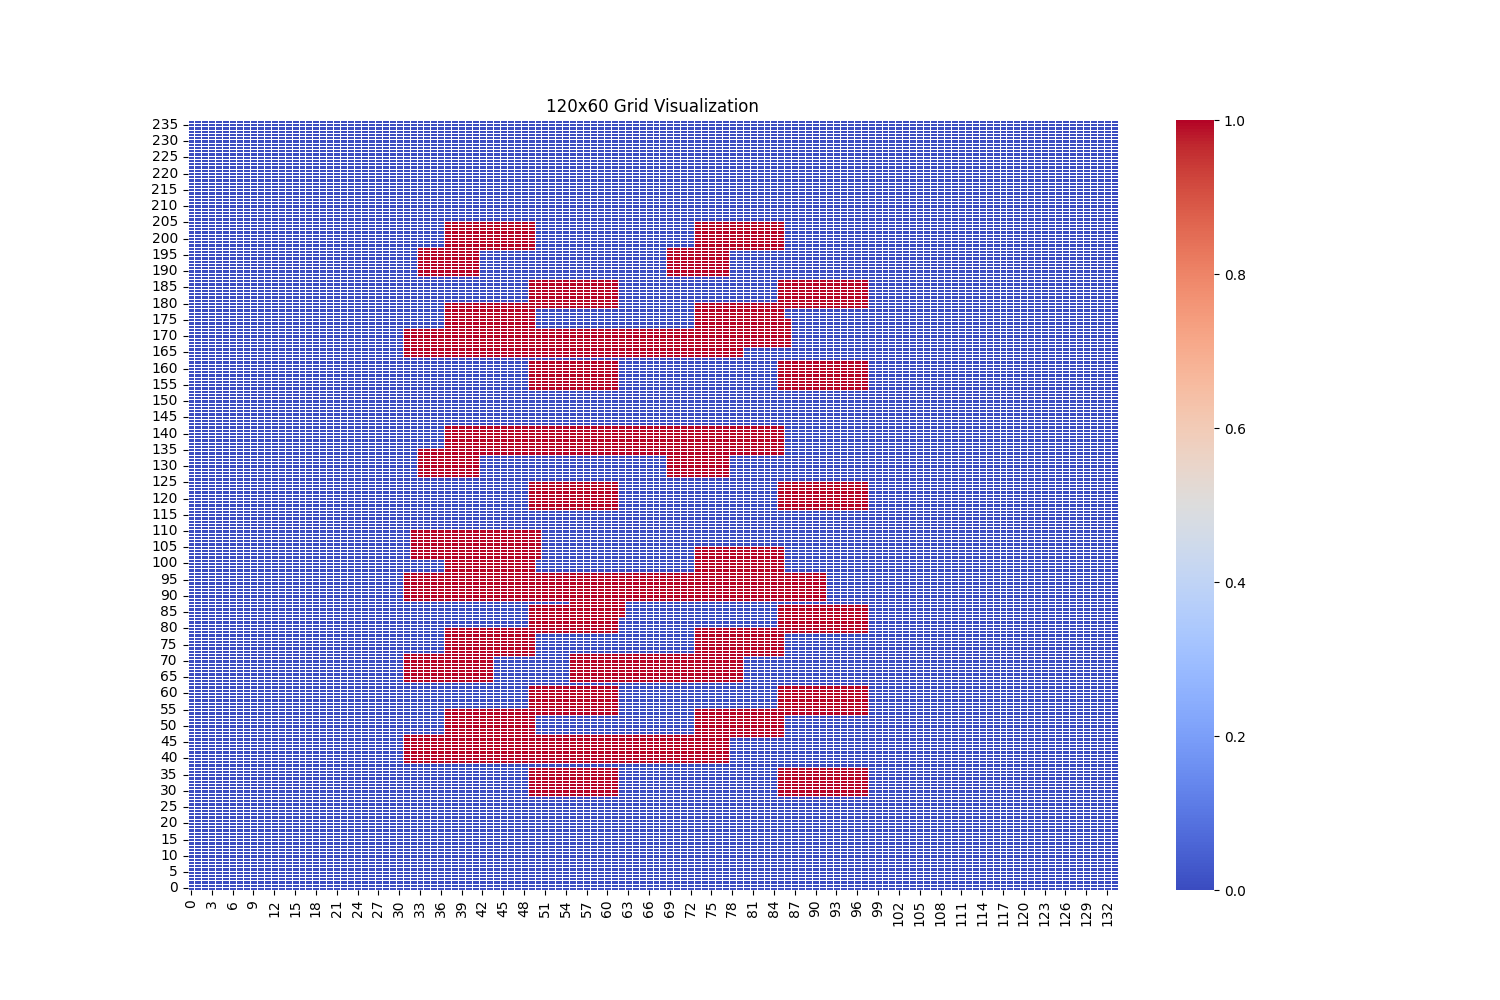
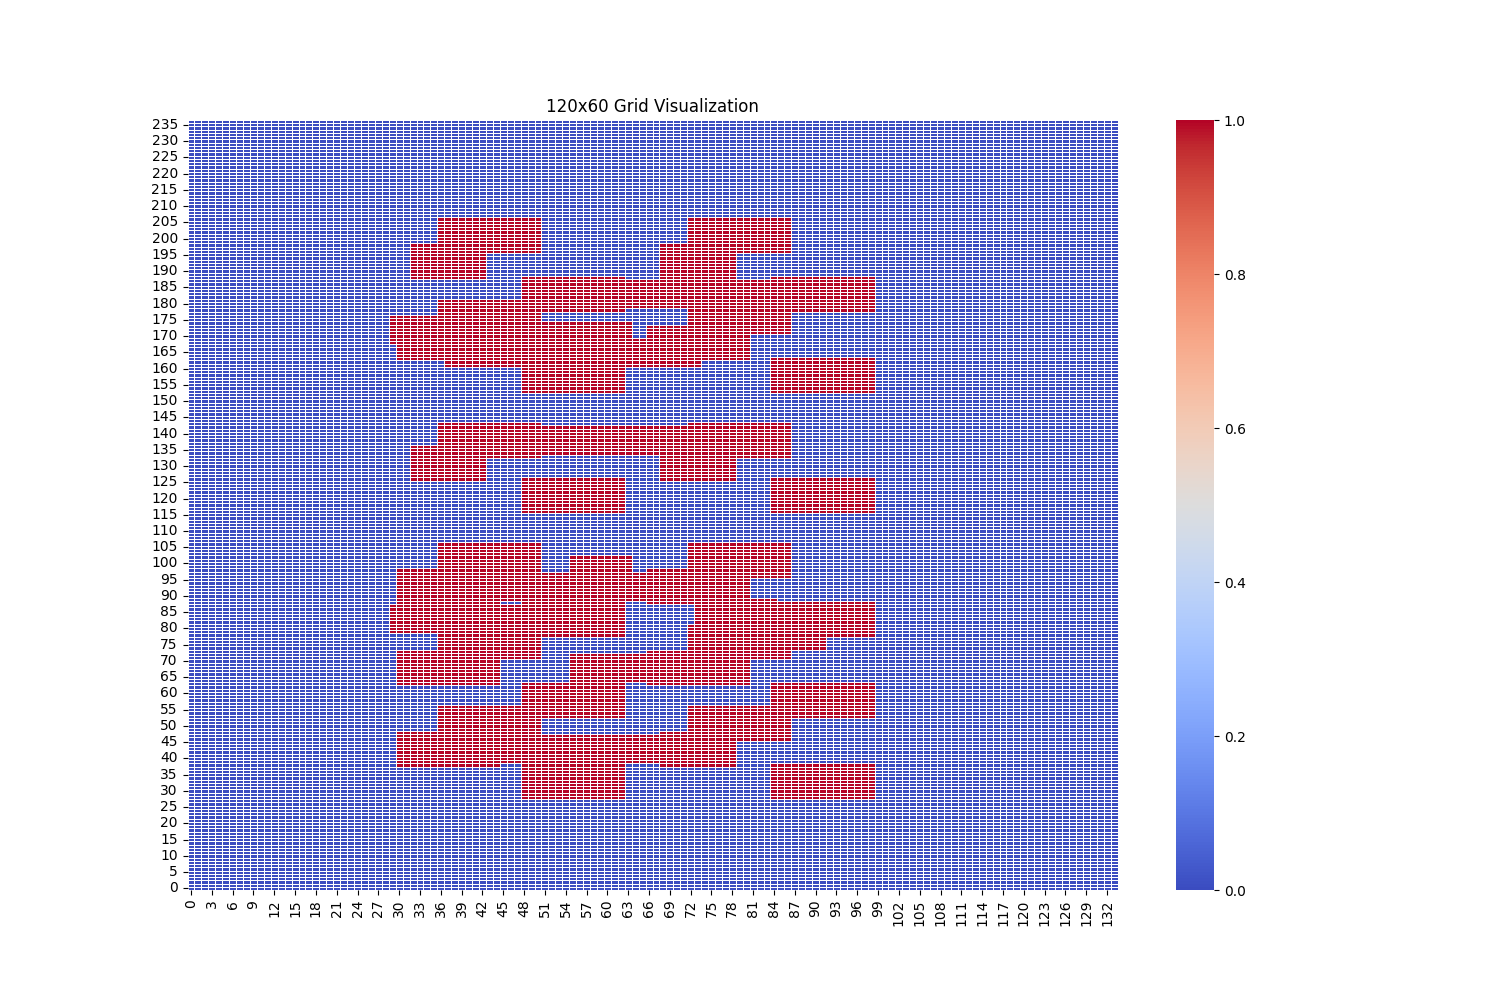
Some further work on routing mainly calculation of area that cannot be used

diff --git a/src/astar/a_star.py b/src/astar/a_star.py
@@ -54,37 +54,6 @@ def heuristic(current, mask, goals):
     return min(manhattan(current, goal) for goal in unvisited)
 
 
-# def get_neighbors(node, grid_vertical, grid_horizontal, goal, current_dir, seg_length):
-#     """Get valid neighbors for the current node."""
-#     neighbors = []
-#     h_dir = [(1, 0), (-1, 0)]
-#     v_dir = [ (0, 1), (0, -1)]
-#
-#
-#
-#
-#     for hdx, hdy in h_dir:
-#         hx, hy = node[0] + hdx, node[1] + hdy
-#
-#
-#             # Check bounds and obstacles
-#         if 0 <= hx < len(grid_horizontal[0]) and 0 <= hy < len(grid_horizontal) and grid_horizontal[hy][hx] == 0:
-#             neighbors.append(((hx,hy), (hdx,hdy)))
-#         elif 0 <= hx < len(grid_horizontal[0]) and 0 <= hy < len(grid_horizontal) and grid_horizontal[hy][hx] == goal:
-#             neighbors.append(((hx,hy), (hdx,hdy)))
-#
-#
-#     for vdx, vdy in v_dir:
-#         vx, vy = node[0] + vdx, node[1] + vdy
-#
-#         if 0 <= vx < len(grid_vertical[0]) and 0 <= vy < len(grid_vertical) and grid_vertical[vy][vx] == 0:
-#             neighbors.append(((vx,vy), (vdx,vdy)))
-#         elif 0 <= vx < len(grid_vertical[0]) and 0 <= vy < len(grid_vertical) and grid_vertical[vy][vx] == goal:
-#             neighbors.append(((vx,vy), (vdx,vdy)))
-#
-#
-#     return neighbors
-
 
 def reconstruct_path(came_from, current):
     """Reconstruct the path from start to goal."""
@@ -96,13 +65,13 @@ def reconstruct_path(came_from, current):
     return path
 
 
-def a_star(grid_vertical, grid_horizontal, start, goals):
-    minimum_seg_length = 6 # Change this to 1 for debugging, but note the impact on state space.
+def a_star(grid_vertical, grid_horizontal, start, goals, minimum_segment_length):
+    minimum_seg_length = minimum_segment_length # Change this to 1 for debugging, but note the impact on state space.
     goal_indices = {goal: i for i, goal in enumerate(goals)}
     all_visited = (1 << len(goals)) - 1
     height = len(grid_vertical)
     width = len(grid_vertical[0]) if height > 0 else 0
-    min_seg_after_goal = 10
+    min_seg_after_goal = minimum_segment_length
     def in_bounds(pos):
         x, y = pos
         return 0 <= x < width and 0 <= y < height
@@ -213,15 +182,17 @@ def check_start_end_port(con, port_scaled_coordinates: dict, port_coordinates: d
 
     return start, real_start, end, real_end
 
-def _lock_or_unlock_port(grid_vertical, grid_horizontal, goal, port_scaled_coordinates, lock):
-    print(port_scaled_coordinates)
-    h = 4
-    w = 6
+def _lock_or_unlock_port(grid_vertical, grid_horizontal, goal, port_scaled_coordinates, routing_sizing_area,lock):
+
+    h = routing_sizing_area.port_height_scaled
+    w = routing_sizing_area.port_width_scaled
     for node in goal:
         for key in port_scaled_coordinates:
             if (int(port_scaled_coordinates[key][0]),int(port_scaled_coordinates[key][2])) == node:
-                w = 4 if key[1] == "G" else 6
+                w = routing_sizing_area.gate_width_scaled if key[1] == "G" else routing_sizing_area.port_width_scaled
+
                 break
+
         for y in range(node[1]-h, node[1]+h+1):
             for x in range(node[0]-w, node[0]+w+1):
 
@@ -231,34 +202,32 @@ def _lock_or_unlock_port(grid_vertical, grid_horizontal, goal, port_scaled_coord
 
     return grid_vertical, grid_horizontal
 
-def run_multiple_astar_multiple_times(grid_vertical, grid_horizontal,goals, run_multiple):
+def run_multiple_astar_multiple_times(grid_vertical, grid_horizontal,goals, port_width_scaled, run_multiple):
     best_path = None
     best_length = float('inf')
     if run_multiple:
-
+        i = 0
         for start in goals:
-            path, length = a_star(grid_vertical, grid_horizontal, start, goals)
+            i+=1
+            path, length = a_star(grid_vertical, grid_horizontal, start, goals, port_width_scaled)
+            print(i)
             if path is not None and length < best_length:
                 best_path = path
                 best_length = length
         return best_path
     else:
-        path, _ = a_star(grid_vertical, grid_horizontal, goals[0], goals)
+        path, _ = a_star(grid_vertical, grid_horizontal, goals[0], goals, port_width_scaled)
         return path
 
 
-def initiate_astar(grid, connections, components, port_scaled_coordinates, port_coordinates, net_list, run_multiple_astar):
+def initiate_astar(grid, connections, components, port_scaled_coordinates, port_coordinates, net_list, run_multiple_astar, routing_sizing_area):
     logger.info("Starting Initiate A*")
     grid_vertical = [row[:] for row in grid[:]]
     grid_horizontal = [row[:] for row in grid[:]]
-    local_paths = {}
+
     path = {}
     seg_list = {}
 
-    done = []
-
-    start_id = 0
-    end_id = 0
 
     for net in net_list.applicable_nets:
 
@@ -300,15 +269,14 @@ def initiate_astar(grid, connections, components, port_scaled_coordinates, port_
 
 
        #Make goal nodes walkable
-        grid_vertical, grid_horizontal = _lock_or_unlock_port(grid_vertical, grid_horizontal, goal_nodes, port_scaled_coordinates , 0)
+        grid_vertical, grid_horizontal = _lock_or_unlock_port(grid_vertical, grid_horizontal, goal_nodes, port_scaled_coordinates , routing_sizing_area,0)
 
-
-        p = run_multiple_astar_multiple_times(grid_vertical, grid_horizontal, goal_nodes, run_multiple_astar)
+        p = run_multiple_astar_multiple_times(grid_vertical, grid_horizontal, goal_nodes, routing_sizing_area.port_width_scaled ,run_multiple_astar)
 
         path.setdefault(net, {})["goal_nodes"] = goal_nodes
         path.setdefault(net, {})["real_goal_nodes"] = real_goal_nodes
         #Make goal nodes non-walkable
-        grid_vertical, grid_horizontal= _lock_or_unlock_port(grid_vertical, grid_horizontal, goal_nodes,port_scaled_coordinates,1)
+        grid_vertical, grid_horizontal= _lock_or_unlock_port(grid_vertical, grid_horizontal, goal_nodes,port_scaled_coordinates,routing_sizing_area,1)
 
         seg = segment_path(p)
         path.setdefault(net, {})["segments"] = seg
@@ -324,15 +292,13 @@ def initiate_astar(grid, connections, components, port_scaled_coordinates, port_
             if seg[0][0] - seg[-1][0] == 0:
 
                 for x, y in seg:
-                    for i in range(-4, 5):
+                    for i in range(-routing_sizing_area.trace_width_scaled, routing_sizing_area.trace_width_scaled+1):
                         grid_vertical[y][x + i] = 1
-                # for x,y in seg:
-                #     grid_vertical[y][x] = 0.2
 
             # horizontal
             if seg[0][1] - seg[-1][1] == 0:
                 for x, y in seg:
-                    for i in range(-4, 5):
+                    for i in range(-routing_sizing_area.trace_width_scaled, routing_sizing_area.trace_width_scaled+1):
                         grid_horizontal[y + i][x] = 1
 
     heatmap_test(grid_vertical, "grid_vertical_heatmap")

diff --git a/src/traces/trace_generate.py b/src/traces/trace_generate.py
@@ -727,57 +727,19 @@ def initiate_write_traces(components, all_paths,  scale_factor, trace_width, use
 
 
     for index, net in enumerate(all_paths):
-        net_rectangles = []
 
-        #if not net == "local:net1" and not net =="local:net2" and not net == "local:VDD" and not net == "local:net3" and not net == "local:VSS" and not net == "local:I_BIAS" and not net == "local:net4" and not net == "net4" and not net == "net3" and not net == "net1":
-        #if not net == "net2" and not net == "net4" and not net == "net3" :
-      #  if not net == "net3" and not net == "net1" and not net == "net2" and not net == "net4":
+
+        if net == "net2":
 
 
 
-        mapped_rectangles = map_segments_to_rectangles(path_info=all_paths[net],
-                                                               scale_factor=scale_factor,
-                                                               used_area=used_area)
 
-        #
-        # net_rectangles.extend(_check_rectangle_port_overlap(rectangles = mapped_rectangles,
-        #                                                              objects = components,
-        #                                                               port_coordinates = all_paths[net]["real_goal_nodes"],
-        #                                                               trace_width = trace_width,
-        #                                                               previous_adjusted_seg = None,
-        #                                                               increment = 0,
-        #                                                               net = net,
-        #                                                               i = 0
-                                                    #        ))
-        #     #    #  print(net_rectangles)
-        #     #    #  _look_for_specific_rectangle(net_rectangles)
-        #     #    #
-        #     #    #          # if i >= 3:
-        #     #    #          #     break
-        #     #    #  #
-        #     #    #  # print(f"Length of net rectangles before delete duplicate: {len(net_rectangles)}")
-        #     #    # #  # print("Stuck at _delete_duplicate")
-        # net_rectangles = _delete_duplicate_rectangles(net_rectangles)
-        #     # #    #  _check_illegal_rectangles(net_rectangles)
-        #     # #    # #  # print(f"Length of net rectangles before eliminate rectangles: {len(net_rectangles)}")
-        # net_rectangles = _eliminate_rectangles(rectangles=net_rectangles,
-        #                                                   trace_width=trace_width,
-        #                                                   port_coordinates = all_paths[net]["real_goal_nodes"])
-        #     #     #  _check_illegal_rectangles(net_rectangles)
-        #     #     # #  # print("Stuck at _check_for_lost_points")
-        #     # #    # #  # print(f"Length of net rectangles before lost points: {len(net_rectangles)}")
-        #     # #    #
-        # net_rectangles =_check_for_lost_points(net_rectangles)
-            #    # #  # print(f"Length of net rectangles end: {len(net_rectangles)}")
-            #    # #
-            #    # # # test.append(net_rectangles)
-            #
-            #
-            #     #if test_redo == True:
-            #         #net_rectangles = _eliminate_rectangles(net_rectangles, trace_width)
-        #components.append(_write_traces(net_rectangles, trace_width, index, net))
+            mapped_rectangles = map_segments_to_rectangles(path_info=all_paths[net],
+                                                                   scale_factor=scale_factor,
+                                                                   used_area=used_area)
 
-        components.append(_write_traces(mapped_rectangles, trace_width, index, net))
+
+            components.append(_write_traces(mapped_rectangles, trace_width, index, net))
 
           #  _check_net_constraint_vioaltion(test)
 

diff --git a/src/grid/generate_grid.py b/src/grid/generate_grid.py
@@ -11,6 +11,7 @@
 # You should have received a copy of the GNU General Public License along with this program.
 # If not, see <https://www.gnu.org/licenses/>.
 # ==================================================================================================================== #
+from dataclasses import dataclass
 
 from circuit.circuit_components import Pin, CircuitCell
 from logger.logger import get_a_logger
@@ -18,9 +19,15 @@ import math
 import numpy as np
 import matplotlib.pyplot as plt
 from draw_result.visualize_grid import visualize_grid, heatmap_test
+from dataclasses import dataclass, field
 
-
-
+@dataclass
+class RoutingSizingParameters:
+    trace_width_scaled: int = field(default_factory=int)
+    port_width_scaled: int = field(default_factory=int)
+    port_height_scaled: int = field(default_factory=int)
+    gate_width_scaled: int = field(default_factory=int)
+    minimum_segment_length: int = field(default_factory=int)
 
 class GridGeneration:
     LEEWAY_X= 500
@@ -28,7 +35,13 @@ class GridGeneration:
 
 
 
-    def __init__(self, grid_size, objects, scale):
+    def __init__(self, grid_size, objects, scale, trace_width, via_minimum_distance, added_via_size):
+        self.trace_width = trace_width
+        self.via_minimum_distance = via_minimum_distance
+        self.added_via_size = added_via_size
+
+        self.routing_sizing_area = RoutingSizingParameters()
+
 
         self.logger = get_a_logger(__name__)
         self.grid_size = grid_size
@@ -73,6 +86,20 @@ class GridGeneration:
                     self.port_scaled_coord.setdefault(str(obj.number_id)+port.type, []).extend([int_x, frac_x, int_y, frac_y])
 
 
+    def _calculate_non_overlap_parameters(self):
+        self.routing_sizing_area.trace_width_scaled = math.ceil((self.trace_width+self.via_minimum_distance+self.added_via_size*2)/self.scale_factor)
+        for object_1 in self.objects:
+            if not isinstance(object_1, (Pin, CircuitCell)):
+                for port in object_1.layout_ports:
+                    if not port.type == "G":
+                        self.routing_sizing_area.port_width_scaled = math.ceil(((port.area.x2-port.area.x1)/2 +self.via_minimum_distance+self.added_via_size*2+self.trace_width/2)/self.scale_factor)
+
+                    else:
+                        self.routing_sizing_area.gate_width_scaled = math.ceil(((port.area.x2-port.area.x1)/2 +self.via_minimum_distance+self.added_via_size*2+self.trace_width/2)/self.scale_factor)
+
+                    self.routing_sizing_area.port_height_scaled = math.ceil(((port.area.y2-port.area.y1)/2 +self.via_minimum_distance+self.added_via_size*2+self.trace_width/2)/self.scale_factor)
+                    if self.routing_sizing_area.port_width_scaled != 0 and self.routing_sizing_area.gate_width_scaled != 0:
+                        break
 
 
 
@@ -88,8 +115,8 @@ class GridGeneration:
 
 
         for port in self.port_area:
-            h = 4
-            w = 4 if port == "G" else 6
+            h = self.routing_sizing_area.port_height_scaled
+            w = self.routing_sizing_area.gate_width_scaled if port == "G" else self.routing_sizing_area.port_width_scaled
 
             for x,y in self.port_area[port]:
                 for i in range(y-h, y+h+1):
@@ -101,6 +128,7 @@ class GridGeneration:
 
     def initialize_grid_generation(self):
         self._port_area()
+        self._calculate_non_overlap_parameters()
         self.generate_grid()
 
-        return self.grid, self.port_scaled_coord, self.used_area, self.port_coordinates
+        return self.grid, self.port_scaled_coord, self.used_area, self.port_coordinates, self.routing_sizing_area

diff --git a/src/main.py b/src/main.py
@@ -70,7 +70,9 @@ scale_factor =16
 time_limit = 2
 draw_name = 'Temporary_check'
 trace_width = 30
-run_multiple_astar = True
+via_minimum_distance = 20
+added_via_size = 7
+run_multiple_astar = False
 def main():
 
     # Create a logger
@@ -97,10 +99,15 @@ def main():
    # components = result.initiate_solver()
 
 
-    grid, port_scaled_coordinates, used_area, port_coordinates = GridGeneration(grid_size=grid_size,
-                                                                     objects=components,
-                                                                     scale=scale_factor
+    grid, port_scaled_coordinates, used_area, port_coordinates, routing_sizing_area = GridGeneration(grid_size=grid_size,
+                                                                        objects=components,
+                                                                        scale=scale_factor,
+                                                                        trace_width= trace_width,
+                                                                        via_minimum_distance = via_minimum_distance,
+                                                                        added_via_size = added_via_size
                                                                      ).initialize_grid_generation()
+
+
 
 
     path, seg_list = initiate_astar(grid = grid,
@@ -109,7 +116,8 @@ def main():
                                     port_scaled_coordinates = port_scaled_coordinates,
                                     port_coordinates = port_coordinates,
                                     net_list = net_list,
-                                    run_multiple_astar = run_multiple_astar
+                                    run_multiple_astar = run_multiple_astar,
+                                    routing_sizing_area = routing_sizing_area
                                     )
     components = initiate_write_traces(components = components,
                                        all_paths = path,
